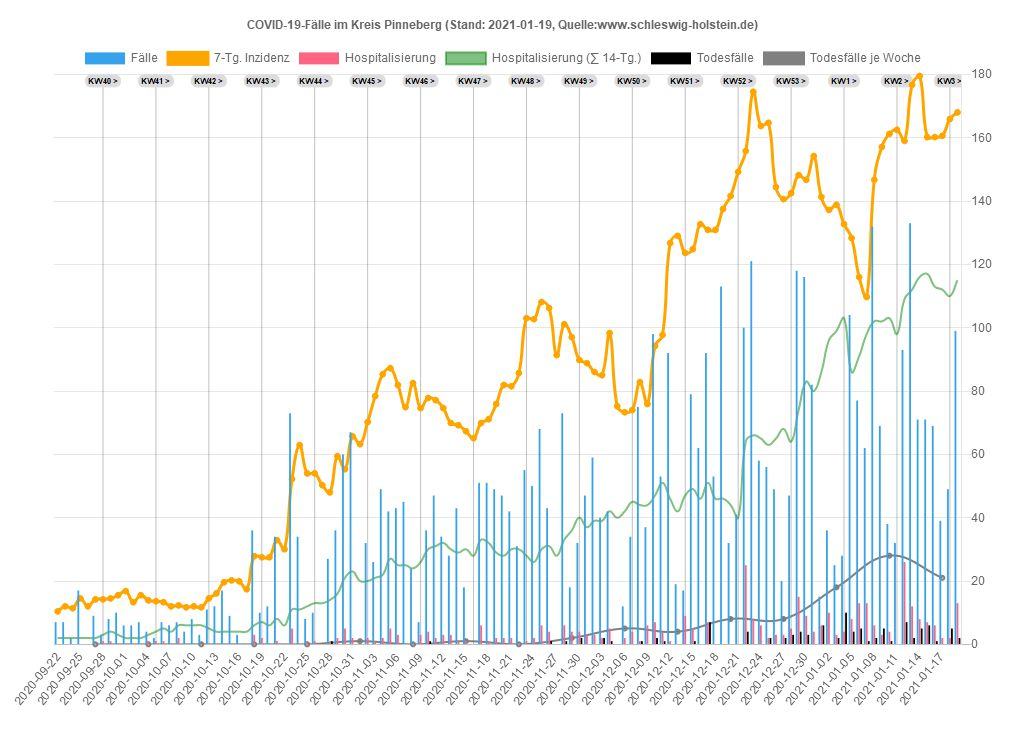
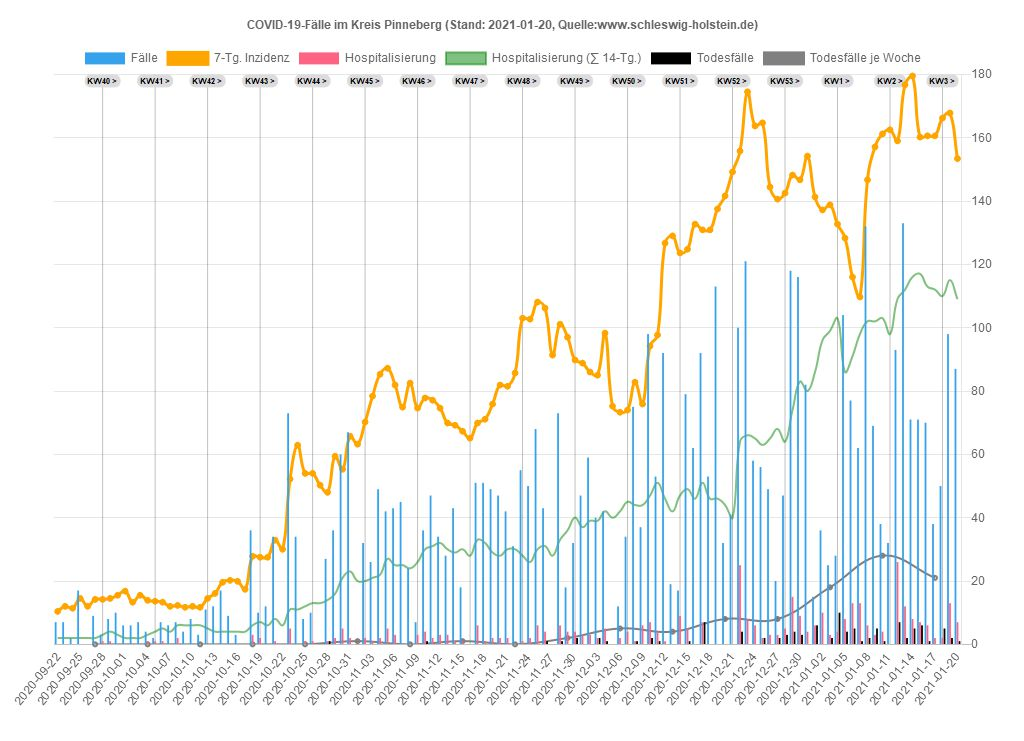
20.01.2021 20:35:13,89

Changed region(s): [[0.0938, 0.0931, 0.9375, 0.9622], [0.0938, 0.0931, 0.1562, 0.1242]]

diff --git a/sh/Data_SH.js b/sh/Data_SH.js
@@ -1,20 +1,20 @@
 var chdata={
-labels: ["2020-09-22","2020-09-23","2020-09-24","2020-09-25","2020-09-26","2020-09-27","2020-09-28","2020-09-29","2020-09-30","2020-10-01","2020-10-02","2020-10-03","2020-10-04","2020-10-05","2020-10-06","2020-10-07","2020-10-08","2020-10-09","2020-10-10","2020-10-11","2020-10-12","2020-10-13","2020-10-14","2020-10-15","2020-10-16","2020-10-17","2020-10-18","2020-10-19","2020-10-20","2020-10-21","2020-10-22","2020-10-23","2020-10-24","2020-10-25","2020-10-26","2020-10-27","2020-10-28","2020-10-29","2020-10-30","2020-10-31","2020-11-01","2020-11-02","2020-11-03","2020-11-04","2020-11-05","2020-11-06","2020-11-07","2020-11-08","2020-11-09","2020-11-10","2020-11-11","2020-11-12","2020-11-13","2020-11-14","2020-11-15","2020-11-16","2020-11-17","2020-11-18","2020-11-19","2020-11-20","2020-11-21","2020-11-22","2020-11-23","2020-11-24","2020-11-25","2020-11-26","2020-11-27","2020-11-28","2020-11-29","2020-11-30","2020-12-01","2020-12-02","2020-12-03","2020-12-04","2020-12-05","2020-12-06","2020-12-07","2020-12-08","2020-12-09","2020-12-10","2020-12-11","2020-12-12","2020-12-13","2020-12-14","2020-12-15","2020-12-16","2020-12-17","2020-12-18","2020-12-19","2020-12-20","2020-12-21","2020-12-22","2020-12-23","2020-12-24","2020-12-25","2020-12-26","2020-12-27","2020-12-28","2020-12-29","2020-12-30","2020-12-31","2021-01-01","2021-01-02","2021-01-03","2021-01-04","2021-01-05","2021-01-06","2021-01-07","2021-01-08","2021-01-09","2021-01-10","2021-01-11","2021-01-12","2021-01-13","2021-01-14","2021-01-15","2021-01-16","2021-01-17","2021-01-18","2021-01-19"],
+labels: ["2020-09-22","2020-09-23","2020-09-24","2020-09-25","2020-09-26","2020-09-27","2020-09-28","2020-09-29","2020-09-30","2020-10-01","2020-10-02","2020-10-03","2020-10-04","2020-10-05","2020-10-06","2020-10-07","2020-10-08","2020-10-09","2020-10-10","2020-10-11","2020-10-12","2020-10-13","2020-10-14","2020-10-15","2020-10-16","2020-10-17","2020-10-18","2020-10-19","2020-10-20","2020-10-21","2020-10-22","2020-10-23","2020-10-24","2020-10-25","2020-10-26","2020-10-27","2020-10-28","2020-10-29","2020-10-30","2020-10-31","2020-11-01","2020-11-02","2020-11-03","2020-11-04","2020-11-05","2020-11-06","2020-11-07","2020-11-08","2020-11-09","2020-11-10","2020-11-11","2020-11-12","2020-11-13","2020-11-14","2020-11-15","2020-11-16","2020-11-17","2020-11-18","2020-11-19","2020-11-20","2020-11-21","2020-11-22","2020-11-23","2020-11-24","2020-11-25","2020-11-26","2020-11-27","2020-11-28","2020-11-29","2020-11-30","2020-12-01","2020-12-02","2020-12-03","2020-12-04","2020-12-05","2020-12-06","2020-12-07","2020-12-08","2020-12-09","2020-12-10","2020-12-11","2020-12-12","2020-12-13","2020-12-14","2020-12-15","2020-12-16","2020-12-17","2020-12-18","2020-12-19","2020-12-20","2020-12-21","2020-12-22","2020-12-23","2020-12-24","2020-12-25","2020-12-26","2020-12-27","2020-12-28","2020-12-29","2020-12-30","2020-12-31","2021-01-01","2021-01-02","2021-01-03","2021-01-04","2021-01-05","2021-01-06","2021-01-07","2021-01-08","2021-01-09","2021-01-10","2021-01-11","2021-01-12","2021-01-13","2021-01-14","2021-01-15","2021-01-16","2021-01-17","2021-01-18","2021-01-19","2021-01-20"],
 datasets: [
 {label: 'Fälle',
 type: 'bar',
 backgroundColor: window.chartColors.blue,
-data: [38,42,63,53,15,15,38,48,49,27,50,16,24,39,54,45,79,54,26,25,65,65,65,55,90,26,88,163,111,160,136,236,142,115,164,164,280,215,313,265,161,142,236,262,220,274,233,177,215,252,247,192,296,158,161,100,294,208,264,250,153,121,145,251,256,225,180,219,71,81,244,240,245,318,234,122,179,356,340,443,429,444,144,210,506,522,489,553,440,193,280,589,673,366,177,201,188,268,576,466,357,135,264,203,265,542,537,482,523,408,143,261,399,491,423,421,358,203,241,455]},
+data: [38,42,63,53,15,15,38,48,49,27,50,16,24,39,54,45,79,54,26,25,65,65,65,55,90,26,88,163,111,160,136,236,142,115,164,164,280,215,313,265,161,142,236,262,220,274,233,177,215,252,247,192,296,158,161,100,294,208,264,250,153,121,145,251,256,225,180,219,71,81,244,240,245,318,234,122,179,356,340,443,429,444,144,210,506,522,489,553,440,193,280,589,673,366,177,201,188,268,576,466,357,135,264,203,265,542,537,482,523,408,143,261,399,491,422,418,356,202,239,464,463]},
 {label: '7-Tg. Inzidenz',
 type: 'line',
 fill: false,
 pointBackgroundColor: 'orange',
 borderColor: 'orange',
-data: [7.2,7.9,8.7,9.4,9.3,9.2,9.1,9.4,9.7,8.4,8.3,8.4,8.7,8.7,8.9,8.8,10.6,10.7,11.1,11.1,12.0,12.4,13.1,12.2,13.5,13.5,15.6,19.0,20.6,23.9,26.7,31.7,35.7,36.6,36.6,38.5,42.6,45.3,48.0,52.2,53.8,53.0,55.5,54.9,55.1,53.7,52.6,53.2,55.7,56.2,55.7,54.8,55.5,52.9,52.4,48.4,49.9,48.5,51.0,49.4,49.2,47.9,49.4,47.9,49.6,48.2,45.8,48.1,46.4,44.2,43.9,43.4,44.1,48.8,49.3,51.1,54.5,58.3,61.8,68.6,72.4,79.7,80.4,81.5,86.6,92.9,94.5,98.8,98.6,100.3,102.7,105.6,110.8,106.6,93.6,85.4,85.2,84.8,84.3,77.2,76.9,75.5,77.6,78.1,78.0,76.9,79.3,83.6,97.0,101.9,99.9,99.7,94.8,93.2,91.2,87.7,86.0,88.0,87.3,89.3]},
+data: [7.2,7.9,8.7,9.4,9.3,9.2,9.1,9.4,9.7,8.4,8.3,8.4,8.7,8.7,8.9,8.8,10.6,10.7,11.1,11.1,12.0,12.4,13.1,12.2,13.5,13.5,15.6,19.0,20.6,23.9,26.7,31.7,35.7,36.6,36.6,38.5,42.6,45.3,48.0,52.2,53.8,53.0,55.5,54.9,55.1,53.7,52.6,53.2,55.7,56.2,55.7,54.8,55.5,52.9,52.4,48.4,49.9,48.5,51.0,49.4,49.2,47.9,49.4,47.9,49.6,48.2,45.8,48.1,46.4,44.2,43.9,43.4,44.1,48.8,49.3,51.1,54.5,58.3,61.8,68.6,72.4,79.7,80.4,81.5,86.6,92.9,94.5,98.8,98.6,100.3,102.7,105.6,110.8,106.6,93.6,85.4,85.2,84.8,84.3,77.2,76.9,75.5,77.6,78.1,78.0,76.9,79.3,83.6,97.0,101.9,99.9,99.7,94.8,93.2,91.2,87.5,85.8,87.8,87.0,89.3,88.3]},
 {label: 'Hospitalisierung',
 type: 'bar',
 backgroundColor: window.chartColors.red,
-data: [1,2,7,1,0,0,2,1,3,1,1,0,4,3,1,1,4,2,0,3,5,1,1,2,4,0,9,10,8,9,12,7,5,6,7,7,11,10,11,6,3,9,19,20,15,15,5,7,13,15,21,13,17,8,17,13,23,10,15,9,7,7,13,16,26,19,12,14,15,10,12,8,10,14,3,5,24,13,26,20,14,12,6,26,27,16,20,18,8,13,13,43,35,23,17,21,26,25,46,33,33,20,34,32,51,58,35,46,34,30,22,45,69,51,59,52,32,37,36,51]},
+data: [1,2,7,1,0,0,2,1,3,1,1,0,4,3,1,1,4,2,0,3,5,1,1,2,4,0,9,10,8,9,12,7,5,6,7,7,11,10,11,6,3,9,19,20,15,15,5,7,13,15,21,13,17,8,17,13,23,10,15,9,7,7,13,16,26,19,12,14,15,10,12,8,10,14,3,5,24,13,26,20,14,12,6,26,27,16,20,18,8,13,13,43,35,23,17,21,26,25,46,33,33,20,34,32,51,58,35,46,34,30,22,45,69,51,59,52,32,37,36,51,53]},
 {label: 'Hosp. (∑ 14-Tg.)',
 type: 'line',
 fill: false,
@@ -22,17 +22,17 @@ hidden: true,
 borderColor: 'rgba(0,255,0,0.5)',
 borderWidth: 1.5,
 pointRadius: 0,
-data: [12,12,20,22,22,22,22,23,23,21,22,21,24,26,26,25,22,23,23,26,29,29,27,28,31,31,36,43,50,58,66,71,76,79,81,87,97,105,112,118,112,111,122,133,136,144,144,145,151,159,169,172,178,180,194,198,202,192,192,186,188,188,188,189,194,200,195,201,199,196,185,183,178,183,179,177,188,185,185,186,188,186,177,193,208,216,226,230,235,243,232,262,271,274,277,286,306,305,324,341,354,356,382,401,439,454,454,477,494,503,499,519,542,560,586,618,616,621,606,599]},
+data: [12,12,20,22,22,22,22,23,23,21,22,21,24,26,26,25,22,23,23,26,29,29,27,28,31,31,36,43,50,58,66,71,76,79,81,87,97,105,112,118,112,111,122,133,136,144,144,145,151,159,169,172,178,180,194,198,202,192,192,186,188,188,188,189,194,200,195,201,199,196,185,183,178,183,179,177,188,185,185,186,188,186,177,193,208,216,226,230,235,243,232,262,271,274,277,286,306,305,324,341,354,356,382,401,439,454,454,477,494,503,499,519,542,560,586,618,616,621,606,599,617]},
 {label: 'Aktuell im Krankenhaus',
 type: 'line',
 fill: false,
 pointBackgroundColor: 'green',
 borderColor: 'green',
-data: [6,6,6,6,6,6,6,11,11,11,11,14,14,15,15,14,14,14,13,13,18,18,18,21,24,24,24,24,31,31,31,31,51,51,58,58,58,58,58,58,58,94,110,114,119,118,124,120,126,116,113,119,112,116,116,148,145,151,141,141,141,141,155,142,122,113,118,118,118,124,114,110,109,114,114,114,131,122,128,132,133,133,133,177,181,194,201,212,236,250,275,271,267,262,262,262,262,309,318,322,346,346,376,376,390,412,376,379,364,364,364,384,362,373,382,398,426,473,454,457]},
+data: [6,6,6,6,6,6,6,11,11,11,11,14,14,15,15,14,14,14,13,13,18,18,18,21,24,24,24,24,31,31,31,31,51,51,58,58,58,58,58,58,58,94,110,114,119,118,124,120,126,116,113,119,112,116,116,148,145,151,141,141,141,141,155,142,122,113,118,118,118,124,114,110,109,114,114,114,131,122,128,132,133,133,133,177,181,194,201,212,236,250,275,271,267,262,262,262,262,309,318,322,346,346,376,376,390,412,376,379,364,364,364,384,362,373,382,398,426,473,454,457,457]},
 {label: 'Todesfälle',
 type: 'bar',
 backgroundColor: 'black',
-data: [0,0,0,0,0,0,0,1,0,0,0,0,0,0,0,0,0,0,0,0,0,1,0,0,0,0,0,0,0,0,1,0,0,3,0,0,3,4,1,0,2,6,7,2,2,6,0,1,4,3,5,0,5,1,3,5,0,2,2,2,1,0,3,4,1,3,3,1,4,2,3,1,4,1,0,1,4,2,5,7,7,1,2,2,6,7,11,3,2,0,9,15,4,3,4,7,10,18,17,14,2,9,7,3,29,22,17,6,14,11,9,15,25,15,15,24,3,1,23,16]},
+data: [0,0,0,0,0,0,0,1,0,0,0,0,0,0,0,0,0,0,0,0,0,1,0,0,0,0,0,0,0,0,1,0,0,3,0,0,3,4,1,0,2,6,7,2,2,6,0,1,4,3,5,0,5,1,3,5,0,2,2,2,1,0,3,4,1,3,3,1,4,2,3,1,4,1,0,1,4,2,5,7,7,1,2,2,6,7,11,3,2,0,9,15,4,3,4,7,10,18,17,14,2,9,7,3,29,22,17,6,14,11,9,15,25,15,15,24,3,1,23,16,16]},
 {label: 'Todesfälle je Woche',
 type: 'line',
 fill: false,
@@ -41,6 +41,6 @@ borderColor: 'rgba(128,128,128,1)',
 borderWidth: 2,
 pointRadius: 2,
 yAxisID: 'first-y-axis',
-data: [,,,,,0,,,,,,,1,,,,,,,0,,,,,,,1,,,,,,,4,,,,,,,10,,,,,,,24,,,,,,,21,,,,,,,12,,,,,,,19,,,,,,,12,,,,,,,28,,,,,,,31,,,,,,,52,,,,,,,70,,,,,,,108,,,,,,,98,,]},
+data: [,,,,,0,,,,,,,1,,,,,,,0,,,,,,,1,,,,,,,4,,,,,,,10,,,,,,,24,,,,,,,21,,,,,,,12,,,,,,,19,,,,,,,12,,,,,,,28,,,,,,,31,,,,,,,52,,,,,,,70,,,,,,,108,,,,,,,98,,,]},
 ]};
 

diff --git a/sh/Kreis_PI.js b/sh/Kreis_PI.js
@@ -1,23 +1,23 @@
 var chdata={
-labels: ["2020-09-22","2020-09-23","2020-09-24","2020-09-25","2020-09-26","2020-09-27","2020-09-28","2020-09-29","2020-09-30","2020-10-01","2020-10-02","2020-10-03","2020-10-04","2020-10-05","2020-10-06","2020-10-07","2020-10-08","2020-10-09","2020-10-10","2020-10-11","2020-10-12","2020-10-13","2020-10-14","2020-10-15","2020-10-16","2020-10-17","2020-10-18","2020-10-19","2020-10-20","2020-10-21","2020-10-22","2020-10-23","2020-10-24","2020-10-25","2020-10-26","2020-10-27","2020-10-28","2020-10-29","2020-10-30","2020-10-31","2020-11-01","2020-11-02","2020-11-03","2020-11-04","2020-11-05","2020-11-06","2020-11-07","2020-11-08","2020-11-09","2020-11-10","2020-11-11","2020-11-12","2020-11-13","2020-11-14","2020-11-15","2020-11-16","2020-11-17","2020-11-18","2020-11-19","2020-11-20","2020-11-21","2020-11-22","2020-11-23","2020-11-24","2020-11-25","2020-11-26","2020-11-27","2020-11-28","2020-11-29","2020-11-30","2020-12-01","2020-12-02","2020-12-03","2020-12-04","2020-12-05","2020-12-06","2020-12-07","2020-12-08","2020-12-09","2020-12-10","2020-12-11","2020-12-12","2020-12-13","2020-12-14","2020-12-15","2020-12-16","2020-12-17","2020-12-18","2020-12-19","2020-12-20","2020-12-21","2020-12-22","2020-12-23","2020-12-24","2020-12-25","2020-12-26","2020-12-27","2020-12-28","2020-12-29","2020-12-30","2020-12-31","2021-01-01","2021-01-02","2021-01-03","2021-01-04","2021-01-05","2021-01-06","2021-01-07","2021-01-08","2021-01-09","2021-01-10","2021-01-11","2021-01-12","2021-01-13","2021-01-14","2021-01-15","2021-01-16","2021-01-17","2021-01-18","2021-01-19"],
+labels: ["2020-09-22","2020-09-23","2020-09-24","2020-09-25","2020-09-26","2020-09-27","2020-09-28","2020-09-29","2020-09-30","2020-10-01","2020-10-02","2020-10-03","2020-10-04","2020-10-05","2020-10-06","2020-10-07","2020-10-08","2020-10-09","2020-10-10","2020-10-11","2020-10-12","2020-10-13","2020-10-14","2020-10-15","2020-10-16","2020-10-17","2020-10-18","2020-10-19","2020-10-20","2020-10-21","2020-10-22","2020-10-23","2020-10-24","2020-10-25","2020-10-26","2020-10-27","2020-10-28","2020-10-29","2020-10-30","2020-10-31","2020-11-01","2020-11-02","2020-11-03","2020-11-04","2020-11-05","2020-11-06","2020-11-07","2020-11-08","2020-11-09","2020-11-10","2020-11-11","2020-11-12","2020-11-13","2020-11-14","2020-11-15","2020-11-16","2020-11-17","2020-11-18","2020-11-19","2020-11-20","2020-11-21","2020-11-22","2020-11-23","2020-11-24","2020-11-25","2020-11-26","2020-11-27","2020-11-28","2020-11-29","2020-11-30","2020-12-01","2020-12-02","2020-12-03","2020-12-04","2020-12-05","2020-12-06","2020-12-07","2020-12-08","2020-12-09","2020-12-10","2020-12-11","2020-12-12","2020-12-13","2020-12-14","2020-12-15","2020-12-16","2020-12-17","2020-12-18","2020-12-19","2020-12-20","2020-12-21","2020-12-22","2020-12-23","2020-12-24","2020-12-25","2020-12-26","2020-12-27","2020-12-28","2020-12-29","2020-12-30","2020-12-31","2021-01-01","2021-01-02","2021-01-03","2021-01-04","2021-01-05","2021-01-06","2021-01-07","2021-01-08","2021-01-09","2021-01-10","2021-01-11","2021-01-12","2021-01-13","2021-01-14","2021-01-15","2021-01-16","2021-01-17","2021-01-18","2021-01-19","2021-01-20"],
 datasets: [
 {label: 'Fälle',
 type: 'bar',
 backgroundColor: window.chartColors.blue,
 yAxisID: 'first-y-axis',
-data: [7,7,2,17,0,9,3,8,10,6,6,7,4,2,7,6,7,4,8,3,11,12,17,9,3,0,36,10,12,34,0,73,34,8,10,0,27,36,60,67,0,32,26,49,42,43,45,24,7,36,47,34,28,43,18,0,51,51,49,47,42,31,55,50,68,43,0,73,18,32,47,59,40,42,0,12,34,75,37,98,53,92,19,17,79,62,92,53,113,32,41,100,121,58,56,49,20,47,118,116,82,15,36,25,28,104,77,62,132,69,38,32,93,133,71,71,69,39,49,99]},
+data: [7,7,2,17,0,9,3,8,10,6,6,7,4,2,7,6,7,4,8,3,11,12,17,9,3,0,36,10,12,34,0,73,34,8,10,0,27,36,60,67,0,32,26,49,42,43,45,24,7,36,47,34,28,43,18,0,51,51,49,47,42,31,55,50,68,43,0,73,18,32,47,59,40,42,0,12,34,75,37,98,53,92,19,17,79,62,92,53,113,32,41,100,121,58,56,49,20,47,118,116,82,15,36,25,28,104,77,62,132,69,38,32,93,133,71,71,70,38,50,98,87]},
 {label: '7-Tg. Inzidenz',
 type: 'line',
 fill: false,
 pointBackgroundColor: 'orange',
 borderColor: 'orange',
 yAxisID: 'first-y-axis',
-data: [10.4,12.0,11.4,14.5,12.0104175,14.2,14.2,14.5,15.5,16.8,13.3,15.5,13.9,13.6,13.3,12.0,12.3,11.7,12.0,11.7,14.5,16.1,19.6,20.2,19.9,17.383499,27.8,27.5,27.5,32.9,30.0260436,52.2,62.9,54.0,54.0,50.2541151,48.0,59.4,55.3,65.7,63.2127235,70.2,78.4,85.3,87.2,81.9,74.9,82.5,74.6,77.8,77.1,74.6,69.9,69.2,67.3,65.1091052,69.9,71.1,75.9,81.9,81.5,85.7,103.0,102.7,108.1,106.2,91.3423854,101.1,97.0,89.8,88.8,86.0,85.0,98.3,75.2231409,73.3,74.0,82.8,75.9,94.2,97.7,126.7,129.0,123.6,124.8,132.7,130.9,130.9,137.5,141.6,149.2,155.8,174.5,163.7,164.7,144.4,140.6,142.5,148.2,146.7,154.2,141.3,137.2,138.8,132.7,128.3,116.0,109.7,146.7,157.1,161.2,162.5,159.0,176.7,179.5,160.2,160.2,160.6,165.9,168.0]},
+data: [10.4,12.0,11.4,14.5,12.0104175,14.2,14.2,14.5,15.5,16.8,13.3,15.5,13.9,13.6,13.3,12.0,12.3,11.7,12.0,11.7,14.5,16.1,19.6,20.2,19.9,17.383499,27.8,27.5,27.5,32.9,30.0260436,52.2,62.9,54.0,54.0,50.2541151,48.0,59.4,55.3,65.7,63.2127235,70.2,78.4,85.3,87.2,81.9,74.9,82.5,74.6,77.8,77.1,74.6,69.9,69.2,67.3,65.1091052,69.9,71.1,75.9,81.9,81.5,85.7,103.0,102.7,108.1,106.2,91.3423854,101.1,97.0,89.8,88.8,86.0,85.0,98.3,75.2231409,73.3,74.0,82.8,75.9,94.2,97.7,126.7,129.0,123.6,124.8,132.7,130.9,130.9,137.5,141.6,149.2,155.8,174.5,163.7,164.7,144.4,140.6,142.5,148.2,146.7,154.2,141.3,137.2,138.8,132.7,128.3,116.0,109.7,146.7,157.1,161.2,162.5,159.0,176.7,179.5,160.2,160.6,160.6,166.2,167.8,153.4]},
 {label: 'Hospitalisierung',
 type: 'bar',
 backgroundColor: window.chartColors.red,
 yAxisID: 'first-y-axis',
-data: [0,0,0,0,0,0,1,1,0,0,0,0,1,1,1,-1,2,0,0,0,0,0,0,0,0,0,3,2,0,1,0,5,0,1,1,0,1,2,5,2,0,2,1,2,5,3,0,0,3,4,2,3,3,1,1,0,6,1,2,2,2,0,1,2,6,4,0,6,4,4,3,3,2,5,0,2,4,1,6,7,4,1,0,9,5,0,7,0,0,0,0,25,8,6,2,3,3,5,15,9,4,6,10,3,4,8,13,13,6,3,4,0,26,12,8,7,6,2,2,13]},
+data: [0,0,0,0,0,0,1,1,0,0,0,0,1,1,1,-1,2,0,0,0,0,0,0,0,0,0,3,2,0,1,0,5,0,1,1,0,1,2,5,2,0,2,1,2,5,3,0,0,3,4,2,3,3,1,1,0,6,1,2,2,2,0,1,2,6,4,0,6,4,4,3,3,2,5,0,2,4,1,6,7,4,1,0,9,5,0,7,0,0,0,0,25,8,6,2,3,3,5,15,9,4,6,10,3,4,8,13,13,6,3,4,0,26,12,8,7,6,2,2,13,7]},
 {label: 'Hospitalisierung (∑ 14-Tg.)',
 type: 'line',
 pointRadius: 0,
@@ -25,12 +25,12 @@ fill: false,
 borderColor: 'rgba(0,128,0,0.5)',
 borderWidth: 2,
 yAxisID: 'first-y-axis',
-data: [2,2,2,2,2,2,3,4,3,2,2,2,3,4,5,4,6,6,6,6,5,4,4,4,4,4,6,7,6,8,6,11,11,12,13,13,14,16,21,23,20,20,21,22,27,25,25,24,26,30,31,32,30,29,30,28,33,32,29,28,30,30,28,26,30,31,28,33,36,40,37,39,39,42,40,42,45,44,44,47,51,46,42,47,49,46,51,46,46,44,40,64,66,65,63,65,68,64,74,83,80,86,96,99,103,86,91,98,102,102,103,98,109,112,116,117,113,112,110,115]},
+data: [2,2,2,2,2,2,3,4,3,2,2,2,3,4,5,4,6,6,6,6,5,4,4,4,4,4,6,7,6,8,6,11,11,12,13,13,14,16,21,23,20,20,21,22,27,25,25,24,26,30,31,32,30,29,30,28,33,32,29,28,30,30,28,26,30,31,28,33,36,40,37,39,39,42,40,42,45,44,44,47,51,46,42,47,49,46,51,46,46,44,40,64,66,65,63,65,68,64,74,83,80,86,96,99,103,86,91,98,102,102,103,98,109,112,116,117,113,112,110,115,109]},
 {label: 'Todesfälle',
 type: 'bar',
 backgroundColor: 'black',
 yAxisID: 'first-y-axis',
-data: [0,0,0,0,0,0,0,0,0,0,0,0,0,0,0,0,0,0,0,0,0,0,0,0,0,0,0,0,0,0,0,0,0,0,0,0,1,0,0,0,0,0,0,0,0,0,0,0,0,1,0,0,0,0,0,0,0,0,0,0,0,0,0,0,0,1,0,1,0,2,0,0,2,1,0,0,0,1,0,2,1,0,0,0,1,0,7,0,0,0,0,4,0,0,2,0,2,3,4,3,0,6,0,2,10,4,5,1,2,5,1,0,7,2,5,6,1,0,5,2]},
+data: [0,0,0,0,0,0,0,0,0,0,0,0,0,0,0,0,0,0,0,0,0,0,0,0,0,0,0,0,0,0,0,0,0,0,0,0,1,0,0,0,0,0,0,0,0,0,0,0,0,1,0,0,0,0,0,0,0,0,0,0,0,0,0,0,0,1,0,1,0,2,0,0,2,1,0,0,0,1,0,2,1,0,0,0,1,0,7,0,0,0,0,4,0,0,2,0,2,3,4,3,0,6,0,2,10,4,5,1,2,5,1,0,7,2,5,6,1,0,5,2,1]},
 {label: 'Todesfälle je Woche',
 type: 'line',
 fill: false,
@@ -39,6 +39,6 @@ borderColor: 'rgba(128,128,128,1)',
 borderWidth: 2,
 pointRadius: 2,
 yAxisID: 'first-y-axis',
-data: [,,,,,0,,,,,,,0,,,,,,,0,,,,,,,0,,,,,,,0,,,,,,,1,,,,,,,0,,,,,,,1,,,,,,,0,,,,,,,2,,,,,,,5,,,,,,,4,,,,,,,8,,,,,,,8,,,,,,,18,,,,,,,28,,,,,,,21,,]},
+data: [,,,,,0,,,,,,,0,,,,,,,0,,,,,,,0,,,,,,,0,,,,,,,1,,,,,,,0,,,,,,,1,,,,,,,0,,,,,,,2,,,,,,,5,,,,,,,4,,,,,,,8,,,,,,,8,,,,,,,18,,,,,,,28,,,,,,,21,,,]},
 ]};
 

diff --git a/sh/Data_SH_Alter.js b/sh/Data_SH_Alter.js
@@ -130,7 +130,8 @@ var chdata={
 				{x: '2021-01-16', y: 'Alle', v: 84.2696726, casesum: 2447},{x: '2021-01-16', y: '00-09', v: 35.4469037, casesum: 91},{x: '2021-01-16', y: '10-19', v: 70.2880724, casesum: 194},{x: '2021-01-16', y: '20-29', v: 125.63992, casesum: 402},{x: '2021-01-16', y: '30-39', v: 103.246462, casesum: 347},{x: '2021-01-16', y: '40-49', v: 79.7224185, casesum: 281},{x: '2021-01-16', y: '50-59', v: 73.4758307, casesum: 364},{x: '2021-01-16', y: '60-69', v: 57.7668968, casesum: 210},{x: '2021-01-16', y: '70-79', v: 65.5558221, casesum: 194},{x: '2021-01-16', y: '80-89', v: 147.616332, casesum: 264},{x: '2021-01-16', y: '90+', v: 347.029428, casesum: 100},
 				{x: '2021-01-17', y: 'Alle', v: 87.0591468, casesum: 2528},{x: '2021-01-17', y: '00-09', v: 36.2259565, casesum: 93},{x: '2021-01-17', y: '10-19', v: 74.6357882, casesum: 206},{x: '2021-01-17', y: '20-29', v: 124.389771, casesum: 398},{x: '2021-01-17', y: '30-39', v: 104.734163, casesum: 352},{x: '2021-01-17', y: '40-49', v: 83.1269345, casesum: 293},{x: '2021-01-17', y: '50-59', v: 73.879544, casesum: 366},{x: '2021-01-17', y: '60-69', v: 58.5921382, casesum: 213},{x: '2021-01-17', y: '70-79', v: 70.2866547, casesum: 208},{x: '2021-01-17', y: '80-89', v: 161.035998, casesum: 288},{x: '2021-01-17', y: '90+', v: 385.202665, casesum: 111},
 				{x: '2021-01-18', y: 'Alle', v: 87.1624607, casesum: 2531},{x: '2021-01-18', y: '00-09', v: 37.3945357, casesum: 96},{x: '2021-01-18', y: '10-19', v: 76.8096461, casesum: 212},{x: '2021-01-18', y: '20-29', v: 127.515142, casesum: 408},{x: '2021-01-18', y: '30-39', v: 108.602186, casesum: 365},{x: '2021-01-18', y: '40-49', v: 87.6662893, casesum: 309},{x: '2021-01-18', y: '50-59', v: 74.0814007, casesum: 367},{x: '2021-01-18', y: '60-69', v: 56.9416554, casesum: 207},{x: '2021-01-18', y: '70-79', v: 65.2179055, casesum: 193},{x: '2021-01-18', y: '80-89', v: 151.530401, casesum: 271},{x: '2021-01-18', y: '90+', v: 357.440311, casesum: 103},
-				{x: '2021-01-19', y: 'Alle', v: 88.5399788, casesum: 2571},{x: '2021-01-19', y: '00-09', v: 35.8364301, casesum: 92},{x: '2021-01-19', y: '10-19', v: 76.0850268, casesum: 210},{x: '2021-01-19', y: '20-29', v: 125.014846, casesum: 400},{x: '2021-01-19', y: '30-39', v: 108.602186, casesum: 365},{x: '2021-01-19', y: '40-49', v: 92.4893538, casesum: 326},{x: '2021-01-19', y: '50-59', v: 72.4665473, casesum: 359},{x: '2021-01-19', y: '60-69', v: 58.8672187, casesum: 214},{x: '2021-01-19', y: '70-79', v: 66.9074886, casesum: 198},{x: '2021-01-19', y: '80-89', v: 155.444471, casesum: 278},{x: '2021-01-19', y: '90+', v: 447.667962, casesum: 129}
+				{x: '2021-01-19', y: 'Alle', v: 88.5399788, casesum: 2571},{x: '2021-01-19', y: '00-09', v: 35.8364301, casesum: 92},{x: '2021-01-19', y: '10-19', v: 76.0850268, casesum: 210},{x: '2021-01-19', y: '20-29', v: 125.014846, casesum: 400},{x: '2021-01-19', y: '30-39', v: 108.602186, casesum: 365},{x: '2021-01-19', y: '40-49', v: 92.4893538, casesum: 326},{x: '2021-01-19', y: '50-59', v: 72.4665473, casesum: 359},{x: '2021-01-19', y: '60-69', v: 58.8672187, casesum: 214},{x: '2021-01-19', y: '70-79', v: 66.9074886, casesum: 198},{x: '2021-01-19', y: '80-89', v: 155.444471, casesum: 278},{x: '2021-01-19', y: '90+', v: 447.667962, casesum: 129},
+				{x: '2021-01-20', y: 'Alle', v: 88.0578475, casesum: 2557},{x: '2021-01-20', y: '00-09', v: 35.8364301, casesum: 92},{x: '2021-01-20', y: '10-19', v: 71.0126917, casesum: 196},{x: '2021-01-20', y: '20-29', v: 127.82768, casesum: 409},{x: '2021-01-20', y: '30-39', v: 107.114485, casesum: 360},{x: '2021-01-20', y: '40-49', v: 94.4753215, casesum: 333},{x: '2021-01-20', y: '50-59', v: 72.2646906, casesum: 358},{x: '2021-01-20', y: '60-69', v: 58.3170577, casesum: 212},{x: '2021-01-20', y: '70-79', v: 63.1904059, casesum: 187},{x: '2021-01-20', y: '80-89', v: 152.648707, casesum: 273},{x: '2021-01-20', y: '90+', v: 475.430316, casesum: 137}
 			],
 			backgroundColor: function(context) {
 				return inzColor(context.dataset.data[context.dataIndex].v)
@@ -138,7 +139,7 @@ var chdata={
 			width: function(context) {
 				const a = context.chart.chartArea
 				if (!a) return 0
-				return (a.right - a.left) / 127.5
+				return (a.right - a.left) / 128.5
 			},
 			height: function(context) {
 				const a = context.chart.chartArea
@@ -150,7 +151,7 @@ var chdata={
 	options: {
 		legend: { display: false },
 		scales: {
-			xAxes: [{type: 'category', labels: ["2020-09-15","2020-09-16","2020-09-17","2020-09-18","2020-09-19","2020-09-20","2020-09-21","2020-09-22","2020-09-23","2020-09-24","2020-09-25","2020-09-26","2020-09-27","2020-09-28","2020-09-29","2020-09-30","2020-10-01","2020-10-02","2020-10-03","2020-10-04","2020-10-05","2020-10-06","2020-10-07","2020-10-08","2020-10-09","2020-10-10","2020-10-11","2020-10-12","2020-10-13","2020-10-14","2020-10-15","2020-10-16","2020-10-17","2020-10-18","2020-10-19","2020-10-20","2020-10-21","2020-10-22","2020-10-23","2020-10-24","2020-10-25","2020-10-26","2020-10-27","2020-10-28","2020-10-29","2020-10-30","2020-10-31","2020-11-01","2020-11-02","2020-11-03","2020-11-04","2020-11-05","2020-11-06","2020-11-07","2020-11-08","2020-11-09","2020-11-10","2020-11-11","2020-11-12","2020-11-13","2020-11-14","2020-11-15","2020-11-16","2020-11-17","2020-11-18","2020-11-19","2020-11-20","2020-11-21","2020-11-22","2020-11-23","2020-11-24","2020-11-25","2020-11-26","2020-11-27","2020-11-28","2020-11-29","2020-11-30","2020-12-01","2020-12-02","2020-12-03","2020-12-04","2020-12-05","2020-12-06","2020-12-07","2020-12-08","2020-12-09","2020-12-10","2020-12-11","2020-12-12","2020-12-13","2020-12-14","2020-12-15","2020-12-16","2020-12-17","2020-12-18","2020-12-19","2020-12-20","2020-12-21","2020-12-22","2020-12-23","2020-12-24","2020-12-25","2020-12-26","2020-12-27","2020-12-28","2020-12-29","2020-12-30","2020-12-31","2021-01-01","2021-01-02","2021-01-03","2021-01-04","2021-01-05","2021-01-06","2021-01-07","2021-01-08","2021-01-09","2021-01-10","2021-01-11","2021-01-12","2021-01-13","2021-01-14","2021-01-15","2021-01-16","2021-01-17","2021-01-18","2021-01-19",], ticks: {display: true},gridlines:{display:false}}],
+			xAxes: [{type: 'category', labels: ["2020-09-15","2020-09-16","2020-09-17","2020-09-18","2020-09-19","2020-09-20","2020-09-21","2020-09-22","2020-09-23","2020-09-24","2020-09-25","2020-09-26","2020-09-27","2020-09-28","2020-09-29","2020-09-30","2020-10-01","2020-10-02","2020-10-03","2020-10-04","2020-10-05","2020-10-06","2020-10-07","2020-10-08","2020-10-09","2020-10-10","2020-10-11","2020-10-12","2020-10-13","2020-10-14","2020-10-15","2020-10-16","2020-10-17","2020-10-18","2020-10-19","2020-10-20","2020-10-21","2020-10-22","2020-10-23","2020-10-24","2020-10-25","2020-10-26","2020-10-27","2020-10-28","2020-10-29","2020-10-30","2020-10-31","2020-11-01","2020-11-02","2020-11-03","2020-11-04","2020-11-05","2020-11-06","2020-11-07","2020-11-08","2020-11-09","2020-11-10","2020-11-11","2020-11-12","2020-11-13","2020-11-14","2020-11-15","2020-11-16","2020-11-17","2020-11-18","2020-11-19","2020-11-20","2020-11-21","2020-11-22","2020-11-23","2020-11-24","2020-11-25","2020-11-26","2020-11-27","2020-11-28","2020-11-29","2020-11-30","2020-12-01","2020-12-02","2020-12-03","2020-12-04","2020-12-05","2020-12-06","2020-12-07","2020-12-08","2020-12-09","2020-12-10","2020-12-11","2020-12-12","2020-12-13","2020-12-14","2020-12-15","2020-12-16","2020-12-17","2020-12-18","2020-12-19","2020-12-20","2020-12-21","2020-12-22","2020-12-23","2020-12-24","2020-12-25","2020-12-26","2020-12-27","2020-12-28","2020-12-29","2020-12-30","2020-12-31","2021-01-01","2021-01-02","2021-01-03","2021-01-04","2021-01-05","2021-01-06","2021-01-07","2021-01-08","2021-01-09","2021-01-10","2021-01-11","2021-01-12","2021-01-13","2021-01-14","2021-01-15","2021-01-16","2021-01-17","2021-01-18","2021-01-19","2021-01-20",], ticks: {display: true},gridlines:{display:false}}],
 			yAxes: [{type: 'category', labels: ["Alle","00-09","10-19","20-29","30-39","40-49","50-59","60-69","70-79","80-89","90+"], offset:true, ticks: {display: true},gridlines:{display:false}}],
 		},
 	}

diff --git a/sh/index_sh_alter.html b/sh/index_sh_alter.html
@@ -5,7 +5,7 @@
 <meta property="og:image" content="index_sh_alter.jpg" />
 <meta property="og:type" content="website" />
 <meta property="og:locale" content="de_DE" />
-<meta property="og:updated_time" content="2021-01-20T17:02:06+01:00" />
+<meta property="og:updated_time" content="2021-01-20T20:35:13+01:00" />
 <title>Altersverteilung der COVID-19-Fälle in Schleswig-Holstein</title>
 <link rel="stylesheet" href="../css/style.css" media="screen" type="text/css">
 <link rel="stylesheet" media="screen" href="Chart.min.css"> 

diff --git a/sh/index_pi_alter.html b/sh/index_pi_alter.html
@@ -5,7 +5,7 @@
 <meta property="og:image" content="index_pi_alter.jpg" />
 <meta property="og:type" content="website" />
 <meta property="og:locale" content="de_DE" />
-<meta property="og:updated_time" content="2021-01-20T17:02:06+01:00" />
+<meta property="og:updated_time" content="2021-01-20T20:35:13+01:00" />
 <title>Altersverteilung der COVID-19-Fälle im Kreis Pinneberg</title>
 <link rel="stylesheet" href="../css/style.css" media="screen" type="text/css">
 <link rel="stylesheet" media="screen" href="Chart.min.css"> 

diff --git a/sh/index.html b/sh/index.html
@@ -5,7 +5,7 @@
 <meta property="og:image" content="index.jpg" />
 <meta property="og:type" content="website" />
 <meta property="og:locale" content="de_DE" />
-<meta property="og:updated_time" content="2021-01-20T17:02:06+01:00" />
+<meta property="og:updated_time" content="2021-01-20T20:35:13+01:00" />
 <title>COVID-19-Fälle im Kreis Pinneberg</title>
 <link rel="stylesheet" href="../css/style.css" media="screen" type="text/css">
 <link rel="stylesheet" media="screen" href="Chart.min.css"> 
